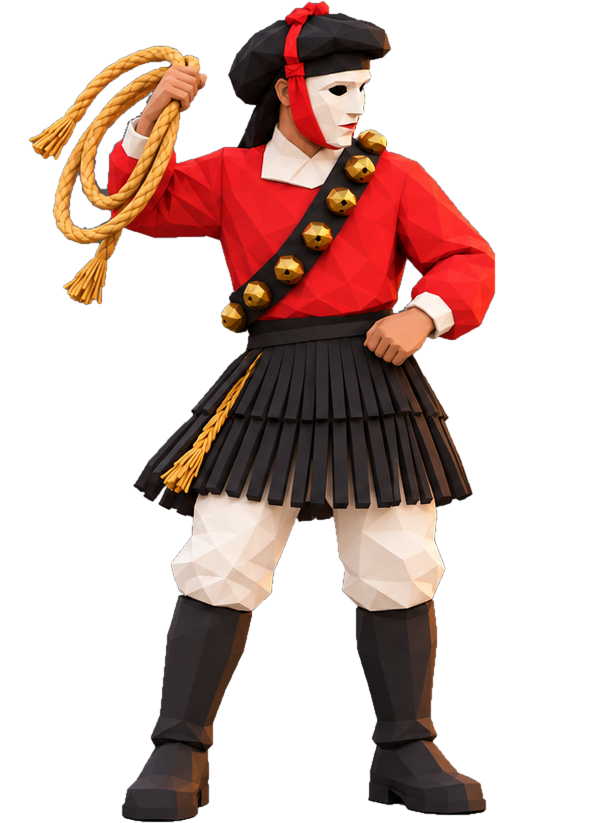
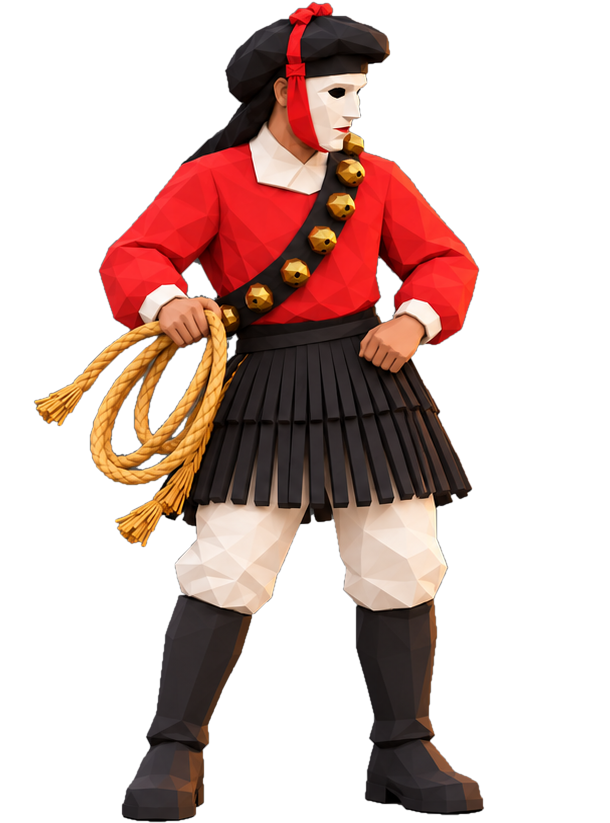
Figure pictures can be replaced without touching the bob timing
The timing lives in StreetBackdrop (pose_at: drop to 67 ms after the beat, halfway to 0.12 s, then
rest) and never depends on the pictures. The cutter finds a sheet's three poses by itself, lines
up their feet on one canvas, and picks the rest pose per figure in one place (the Issohadore rests
on his rope-at-hip pose, as Daniele chose), so a new sheet is: save it, run the cutter. A test
checks the timing and that each figure has three same-size pictures.

Claude-Session: https://claude.ai/code/session_01MEVcaXhkfESzetw3bREgwY

diff --git a/tools/art/street/cut_figures.py b/tools/art/street/cut_figures.py
@@ -80,33 +80,62 @@ def feet_x(img):
     return float(np.mean(xs[low]))
 
 
-# The figures' bob (Daniele, 2026-09-30): standing, the drop on the beat, halfway back up, one
-# camera and feet fixed. Same treatment as the dance; every pose keeps its own height on a canvas
-# the standing pose's height, feet at the bottom, so the drop reads as the figure sinking.
+# The figures' bob (Daniele, 2026-09-30). A sheet is three poses of one figure side by side, one
+# camera, feet in the same spot, on a plain backdrop, in the order standing, the drop on the beat,
+# halfway back up. To replace a figure's pictures, save a new sheet over <figure>_bob_sheet.png in
+# the reference folder and run this script with --bob: it finds the three poses by itself, cuts
+# them out, lines their feet up on one canvas and writes game/art/street/<figure>_bob_0/1/2.png
+# (0 rest, 1 drop, 2 halfway). The game's timing is in StreetBackdrop and doesn't change.
+#
+# REST picks which of the sheet's poses the figure stands in between beats. The Issohadore's sheet
+# holds the rope overhead in its standing pose, so the rope jumped up every beat; Daniele chose to
+# keep him resting with it at his hip (the halfway pose). Set it back to 0 for a sheet whose
+# standing pose sits close to the other two.
 BOBS = {
-    "mamuthone": ("mamuthone_bob_sheet.png", [0, 493, 959, None], 18),
-    "issohadore": ("issohadore_bob_sheet.png", [0, 478, 966, None], 18),
+    "mamuthone": {"tol": 18, "rest": 0},
+    "issohadore": {"tol": 18, "rest": 2, "clear_holes": True},
 }
 
 
+def split3(sheet, tol=30):
+    """The columns that split a sheet into its three poses: the middle of the widest runs of
+    empty backdrop, or, where two poses touch, the emptiest column near a third of the width."""
+    bg = np.median(np.concatenate([sheet[:5].reshape(-1, 3), sheet[-5:].reshape(-1, 3)]), axis=0)
+    ink = (np.sqrt(((sheet - bg) ** 2).sum(-1)) > tol).sum(0)
+    w = len(ink)
+    cuts = []
+    for k in (1, 2):
+        lo, hi = int(w * (k / 3 - 0.1)), int(w * (k / 3 + 0.1))
+        low = ink[lo:hi].min()
+        xs = np.where(ink[lo:hi] == low)[0] + lo
+        # the middle of the longest run at that minimum
+        runs = np.split(xs, np.where(np.diff(xs) > 1)[0] + 1)
+        run = max(runs, key=len)
+        cuts.append(int(run[len(run) // 2]))
+    return [0] + cuts + [w]
+
+
 def bob(name):
-    src, cuts, tol = BOBS[name]
-    sheet = np.asarray(Image.open(os.path.join(SRC, src)).convert("RGB")).astype(float)
-    cuts = [c if c is not None else sheet.shape[1] for c in cuts]
-    poses = [cut_array(sheet[:, cuts[i]:cuts[i + 1]], tol, name == "issohadore") for i in range(3)]
+    cfg = BOBS[name]
+    sheet = np.asarray(Image.open(os.path.join(SRC, name + "_bob_sheet.png")).convert("RGB")).astype(float)
+    cuts = split3(sheet)
+    poses = [cut_array(sheet[:, cuts[i]:cuts[i + 1]], cfg["tol"], cfg.get("clear_holes", False)) for i in range(3)]
     fx = [feet_x(p) for p in poses]
     half = int(max(max(f, p.size[0] - f) for f, p in zip(fx, poses))) + 2
     h = max(p.size[1] for p in poses)
-    for i, p in enumerate(poses):
+    order = [cfg["rest"], 1, 2]
+    for i, k in enumerate(order):
+        p = poses[k]
         canvas = Image.new("RGBA", (half * 2, h), (0, 0, 0, 0))
-        canvas.paste(p, (int(round(half - fx[i])), h - p.size[1]))
+        canvas.paste(p, (int(round(half - fx[k])), h - p.size[1]))
         canvas.save(os.path.join(OUT, "%s_bob_%d.png" % (name, i)))
-        print(name, "bob", i, p.size, canvas.size)
+        print(name, "bob", i, "from sheet pose", k, "split at", cuts[1:3], canvas.size)
 
 
 os.makedirs(OUT, exist_ok=True)
 for name in BOBS:
-    bob(name)
+    if os.path.exists(os.path.join(SRC, name + "_bob_sheet.png")):
+        bob(name)
 if "--bob" in sys.argv:
     sys.exit()
 for name, (src, box, tol) in CUTS.items():
